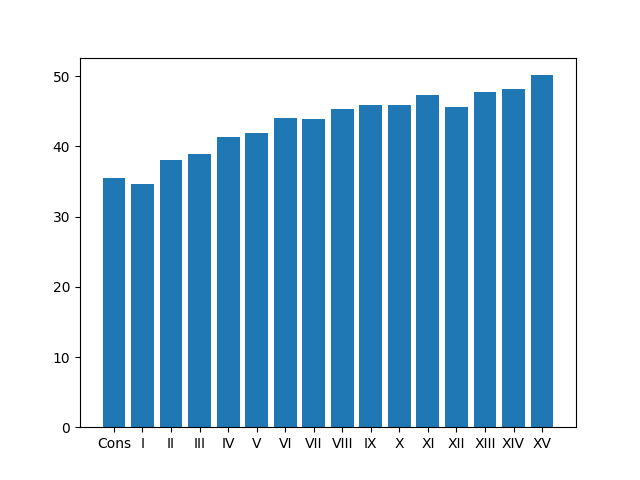
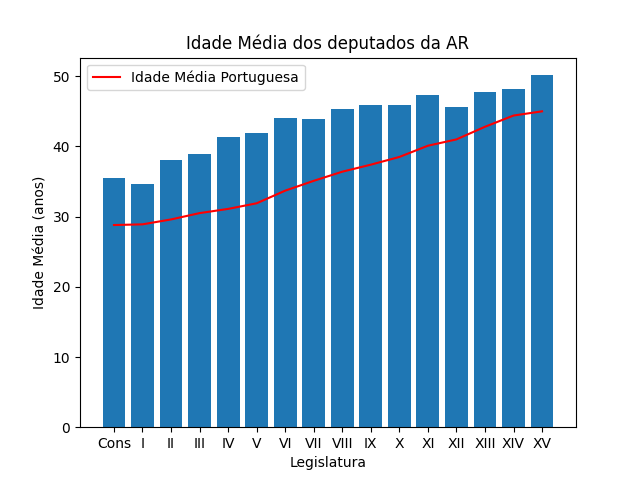
adding parties

diff --git a/graphs.py b/graphs.py
@@ -1,5 +1,6 @@
 from array import array
 from cmath import nan
+from turtle import color
 import pandas as pd
 import matplotlib.pyplot as plt
 import numpy as np
@@ -11,22 +12,7 @@ members_df = pd.read_csv('C:\\Users\\hugom\\Data Frolicking\\portuguese_ar_membe
 members_df['DOB'] = pd.to_datetime(members_df['DOB'])
 
 # 
-legis_elecdate = pd.DataFrame([pd.to_datetime('1975-04-25'),
-                  pd.to_datetime('1976-04-25'),
-                  pd.to_datetime('1980-10-05'),
-                  pd.to_datetime('1983-04-25'),
-                  pd.to_datetime('1985-10-06'),
-                  pd.to_datetime('1987-07-19'),
-                  pd.to_datetime('1991-10-06'),
-                  pd.to_datetime('1995-10-01'),
-                  pd.to_datetime('1999-10-10'),
-                  pd.to_datetime('2002-03-17'),
-                  pd.to_datetime('2005-02-20'),
-                  pd.to_datetime('2009-09-27'),
-                  pd.to_datetime('2011-06-05'),
-                  pd.to_datetime('2015-10-04'),
-                  pd.to_datetime('2019-10-06'),
-                  pd.to_datetime('2022-01-30')])
+port_av_age = [28.8, 28.9, 29.6, 30.5, 31.1, 31.9, 33.7, 35.1, 36.4, 37.4, 38.5, 40.1, 41.0, 42.8, 44.4, 45.0]
 
 median_age_years = [1970]
 
@@ -130,69 +116,24 @@ legis_member_ar_data['Election Date'] = legis_member_ar_data['Election Date'].ap
 
 legis_member_ar_data["Age at Election"] = legis_member_ar_data['Election Date'] - legis_member_ar_data['DOB']
 
-# # Create list of dataframes with dob and age per legislature per party
-# legis_dob_perparty_df = copy.deepcopy(legis_member_perparty_df)
-# legis_age_perparty = [[[] for j in range(len(legis_member_perparty_df[i]))] for i in range(len(legis_member_perparty_df))]
-# for i in range(len(legis_member_perparty_df)):
-#     for j in range(len(legis_member_perparty_df[i])):
-#         # Drop rows without DOB
-#         legis_dob_perparty_df[i][j] = legis_dob_perparty_df[i][j]['DOB'].dropna()
-
-#         # Transform DOB to age at time of election
-#         for k in range(len(legis_dob_perparty_df[i][j])):
-#             legis_age_perparty[i][j].append(legis_elecdate.iloc[i,0]-legis_dob_perparty_df[i][j].iloc[k])
-#             legis_age_perparty[i][j][k] = legis_age_perparty[i][j][k].to_numpy()/ np.timedelta64(1, 'D')
-
-# # Drop parties that had no DOB at all
-# for i in range(len(legis_age_perparty[i])):
-#     legis_age_perparty[i] = [j for j in legis_age_perparty[i] if j]
-
-# # List of average age per legislature per party
-# legis_ageav_perparty = [[[] for j in range(len(legis_age_perparty[i]))] for i in range(len(legis_age_perparty))]
-# for i in range(len(legis_age_perparty)):
-#     for j in range(len(legis_age_perparty[i])):
-#         legis_ageav_perparty[i][j] = np.mean(legis_age_perparty[i][j])/365
 
 
-
-# # Create list of dataframes with dob and age per legislature
-# legis_dob_df = copy.deepcopy(legis_member_df)
-# legis_age = [[] for i in range(len(legis_member_df))]
-# for i in range(len(legis_member_df)):
-#     # Drop rows without DOB
-#     legis_dob_df[i] = legis_dob_df[i]['DOB'].dropna()
-
-#     # Transform DOB to age at time of election
-#     for k in range(len(legis_dob_df[i])):
-#         legis_age[i].append(legis_elecdate.iloc[i,0]-legis_dob_df[i].iloc[k])
-#         legis_age[i][k] = legis_age[i][k].to_numpy()/ np.timedelta64(1, 'D')
-
-# # List of average age per legislature
-# legis_ageav = [[] for i in range(len(legis_age))]
-# for i in range(len(legis_ageav)):
-#     legis_ageav[i] = np.mean(legis_age[i])/365
-
-#     # Plotting
-#     fig, avage_plot = plt.subplots(1)
-
-#     legis_party_df_alt = legis_party_df[i].iloc[0:len(legis_ageav_perparty[i])]
-#     avage_plot.bar(legis_party_df_alt, legis_ageav_perparty[i])
-#     #plt.show()
-
-#print(legis_member_ar_data.loc[legis_member_ar_data['Name'] == 'Manuel Gonçalves Valente Fernandes'])
-#print(legis_member_ar_data.loc(axis=0)[legis_member_ar_data.index[0][0]])
-
-
-# Plotting
-#fig, avage_plot = plt.subplots(1)
-
-#avage_plot.bar(legis_df, legis_ageav)
-#plt.show()
+# Creating 'Age at Election' column
 age=legis_member_ar_data['Age at Election'].loc[legis_member_ar_data['Age at Election'].notna()]/ np.timedelta64(1, 'D')/365
 
 age_bylegis = [age.loc[legis_df[i]].mean() for i in range(len(legis_df))]
 
-#print(age_bylegis)
+## Plotting
+fig, age_legis_plot = plt.subplots(1)
+
+age_legis_plot.bar([legis_df[i] for i in range(len(legis_df))], age_bylegis)
+age_legis_plot.plot([legis_df[i] for i in range(len(legis_df))], port_av_age, color='red', label='Idade Média Portuguesa')
+
+age_legis_plot.set_xlabel('Legislatura')
+age_legis_plot.set_ylabel('Idade Média (anos)')
+age_legis_plot.set_title('Idade Média dos deputados da AR')
+age_legis_plot.legend()
+plt.show()
 
 
 
@@ -200,18 +141,21 @@ age_bylegis = [age.loc[legis_df[i]].mean() for i in range(len(legis_df))]
 legis_ps = legis_member_ar_data.loc(axis=0)[:,'PS'].index.drop_duplicates()
 age_byparty_ps = [age.loc[legis_ps[i][0], 'PS'].mean(skipna=True) for i in range(len(legis_ps))]
 
-# Plotting
+## Plotting
 fig, age_ps_plot = plt.subplots(1)
 
-
 age_ps_plot.bar([legis_ps[i][0] for i in range(len(legis_ps))], age_byparty_ps)
+age_ps_plot.plot([legis_ps[i][0] for i in range(len(legis_ps))], port_av_age, color='red', label='Idade Média Portuguesa')
 
+age_ps_plot.set_xlabel('Legislatura')
 age_ps_plot.set_ylabel('Idade Média (anos)')
 age_ps_plot.set_title('Idade Média dos deputados do PS')
+age_ps_plot.legend()
 plt.show()
 
-# PSD-PPD average age
 
+
+# PSD-PPD average age
 age_byparty_psd = [age.loc['Cons', 'PPD'].mean(skipna=True),
                    pd.concat([age.loc['I', 'PPD'], age.loc['I', 'PSD']]).mean(skipna=True), 
                    age.loc['II', 'PSD'].mean(skipna=True), 
@@ -229,20 +173,20 @@ age_byparty_psd = [age.loc['Cons', 'PPD'].mean(skipna=True),
                    age.loc['XIV', 'PSD'].mean(skipna=True), 
                    age.loc['XV', 'PSD'].mean(skipna=True),]
 
-
-# Plotting
+## Plotting
 fig, age_psd_plot = plt.subplots(1)
 
-
 age_psd_plot.bar([legis_df[i] for i in range(len(legis_df))], age_byparty_psd)
+age_psd_plot.plot([legis_df[i] for i in range(len(legis_df))], port_av_age, color='red', label='Idade Média Portuguesa')
 
+age_psd_plot.set_xlabel('Legislatura')
 age_psd_plot.set_ylabel('Idade Média (anos)')
-age_psd_plot.set_title('Idade Média dos deputados do PSD-PPD')
+age_psd_plot.set_title('Idade Média dos deputados do PPD-PSD')
+age_psd_plot.legend()
 plt.show()
 
 
 # BE average age
-
 age_byparty_be = [age.loc['VIII', 'BE'].mean(skipna=True), 
                    age.loc['IX', 'BE'].mean(skipna=True), 
                    age.loc['X', 'BE'].mean(skipna=True), 
@@ -253,17 +197,19 @@ age_byparty_be = [age.loc['VIII', 'BE'].mean(skipna=True),
                    age.loc['XV', 'BE'].mean(skipna=True),]
 
 
-# Plotting
+## Plotting
 fig, age_be_plot = plt.subplots(1)
 
-
 age_be_plot.bar([legis_df[i] for i in range(8,len(legis_df))], age_byparty_be)
+age_be_plot.plot([legis_df[i] for i in range(8,len(legis_df))], port_av_age[8:], color='red', label='Idade Média Portuguesa')
 
+age_be_plot.set_xlabel('Legislatura')
 age_be_plot.set_ylabel('Idade Média (anos)')
 age_be_plot.set_title('Idade Média dos deputados do BE')
+age_be_plot.legend()
 plt.show()
 
-print(legis_member_ar_data.loc(axis=0)[pd.IndexSlice[:,['BE']]].index.drop_duplicates())
+
 
 # PCP-PEV average age
 age_byparty_pcp = [age.loc['Cons', 'PCP'].mean(skipna=True), 
@@ -273,14 +219,30 @@ age_byparty_pcp = [age.loc['Cons', 'PCP'].mean(skipna=True),
                    age.loc['IV', 'PCP'].mean(),
                    pd.concat([age.loc['V', 'PCP'], age.loc['V', 'PEV']]).mean(),
                    pd.concat([age.loc['VI', 'PCP'], age.loc['VI', 'PEV']]).mean(),
-                 age.loc['VII', 'PCP'].mean() + age.loc['VII', 'PEV'].mean(),
-                 age.loc['VIII', 'PCP'].mean() + age.loc['VIII', 'PEV'].mean(),
-                 age.loc['XI', 'PCP'].mean() + age.loc['IX', 'PEV'].mean(),
-                 age.loc['X', 'PCP'].mean() + age.loc['X', 'PEV'].mean(),
-                 age.loc['XI', 'PCP'].mean() + age.loc['XI', 'PEV'].mean(),
-                 age.loc['XII', 'PCP'].mean() + age.loc['XII', 'PEV'].mean(),
-                 age.loc['XIII', 'PCP'].mean() + age.loc['XIII', 'PEV'].mean(),
-                 age.loc['XIV', 'PCP'].mean() + age.loc['XIV', 'PEV'].mean(),
-                 age.loc['XV', 'PCP'].mean()]
+                   pd.concat([age.loc['VII', 'PCP'], age.loc['VII', 'PEV']]).mean(),
+                   pd.concat([age.loc['VIII', 'PCP'], age.loc['VIII', 'PEV']]).mean(),
+                   pd.concat([age.loc['IX', 'PCP'], age.loc['IX', 'PEV']]).mean(),
+                   pd.concat([age.loc['X', 'PCP'], age.loc['X', 'PEV']]).mean(),
+                   pd.concat([age.loc['XI', 'PCP'], age.loc['XI', 'PEV']]).mean(),
+                   pd.concat([age.loc['XII', 'PCP'], age.loc['XII', 'PEV']]).mean(),
+                   pd.concat([age.loc['XIII', 'PCP'], age.loc['XIII', 'PEV']]).mean(),
+                   pd.concat([age.loc['XIV', 'PCP'], age.loc['XIV', 'PEV']]).mean(),
+                   age.loc['XV', 'PCP'].mean()]
 
-#print(age_byparty_pcp)
+## Plotting
+fig, age_pcp_plot = plt.subplots(1)
+
+age_pcp_plot.bar([legis_df[i] for i in range(len(legis_df))], age_byparty_pcp)
+age_pcp_plot.plot([legis_df[i] for i in range(len(legis_df))], port_av_age, color='red', label='Idade Média Portuguesa')
+
+age_pcp_plot.set_xlabel('Legislatura')
+age_pcp_plot.set_ylabel('Idade Média (anos)')
+age_pcp_plot.set_title('Idade Média dos deputados do PCP-PEV')
+age_pcp_plot.legend()
+plt.show()
+
+
+print(legis_member_ar_data.loc(axis=0)[pd.IndexSlice[:,['PEV']]].index.drop_duplicates())
+
+#print(legis_member_ar_data.loc[legis_member_ar_data['Name'] == 'Manuel Gonçalves Valente Fernandes'])
+#print(legis_member_ar_data.loc(axis=0)[legis_member_ar_data.index[0][0]])
